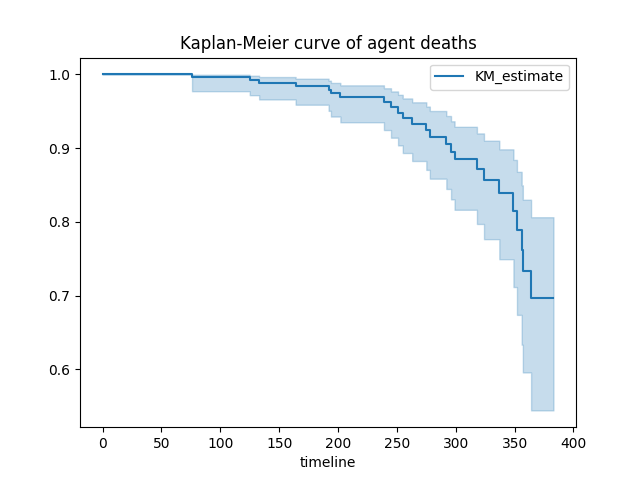
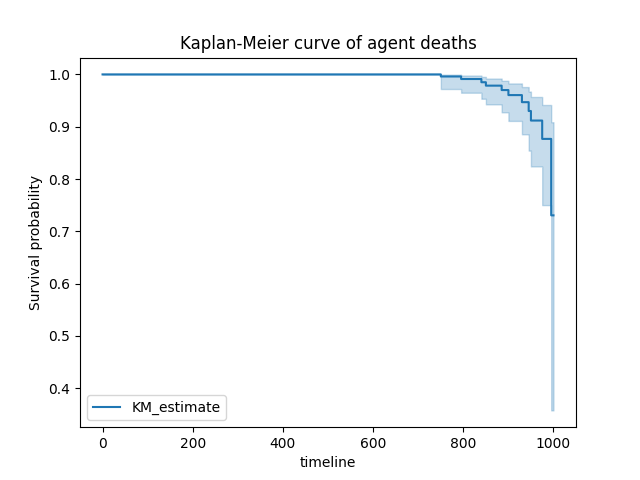
upkeep and KM-graph bugfix

diff --git a/simulation.py b/simulation.py
@@ -114,7 +114,7 @@ def moveAgent(preferred_direction):
 pygame.init()
 clock = pygame.time.Clock()
 dt = 0
-fps = 60
+fps = 120
 time = 1
 
 # Set up the grid
@@ -165,7 +165,7 @@ maximum_resources = {
 resources = copy.deepcopy(maximum_resources)
 
 # Set up the agents
-NUM_AGENTS = 200
+NUM_AGENTS = 100
 agents = []
 agent_colours = sns.color_palette('bright', n_colors=NUM_AGENTS)
 
@@ -179,7 +179,7 @@ for i in range(NUM_AGENTS):
    
     x = random.randint(0, GRID_WIDTH-2)
     y = random.randint(0, GRID_HEIGHT-2)
-    color = (255.0,0.0,0.0) if x < GRID_WIDTH/2 else (0.0,255.0,0.0)
+    color = (255.0,0.0,0.0) if y < GRID_HEIGHT/2 else (0.0,255.0,0.0)
     agent = Agent(i, x, y, color, GRID_WIDTH, GRID_HEIGHT) #color = np.array(agent_colours[i])*255
     agents.append(agent)
 
@@ -226,6 +226,12 @@ while running:
         pygame.draw.line(screen, BLACK, (x, 0), (x, SCREEN_HEIGHT))
     for y in range(0, SCREEN_HEIGHT, CELL_SIZE):
         pygame.draw.line(screen, BLACK, (0, y), (SCREEN_WIDTH, y))
+
+    # DEBUG
+    # if len(agents) < 10:
+    #     fps = 5
+    #     for agent in agents:
+    #         print('pos',agent.getPos(),'wood',agent.getCurrentStock('wood'),'food',agent.getCurrentStock('food'))
 
     # Update the agents
     for agent in agents:
@@ -283,14 +289,17 @@ while running:
                 if able_to_take_resource(agent, chosen_resource, resources):
                     take_resource(agent, chosen_resource, resources, gather_amount)
             
-                # Upkeep of agents and check if agent can survive
-                agent.upkeep()
-                
+            # Upkeep of agents and check if agent can survive
+            agent.upkeep()
 
             # Choose behaviour
             agent.updateBehaviour() # Agent brain
             preferred_direction = agent.chooseStep()
             moveAgent(preferred_direction)
+        # If agent is not alive, remove it from list
+        else:
+            # agents.remove(agent)
+            pass
 
     if regen_active:
         for maximum_resource in maximum_resources:
@@ -306,7 +315,13 @@ while running:
     dt = clock.tick(fps)/100
     time += 1
     
-
+    for agent in agents:
+        nr=0
+        if agent.isAlive():
+            nr+=1
+    if nr==1:
+        running=False
+        
 # Clean up
 pygame.quit()
 
@@ -331,7 +346,6 @@ plt.figure()
 kmf.plot()
 plt.title('Kaplan-Meier curve of agent deaths')
 plt.ylabel('Survival probability')
-plt.show()
 
 plt.figure
 plt.bar(np.arange(NUM_AGENTS), np.sort(alive_times))

diff --git a/agent.py b/agent.py
@@ -5,7 +5,7 @@ resources = ['wood', 'food']
 RANDOM_AGENTS = True
 TRADE_THRESHOLD = 1.5
 TRADE_QTY = 1.0
-UPKEEP_COST = 0.2
+UPKEEP_COST = 0.02
 
 class Agent:
     def __init__(self, id, x, y, color, GRID_WIDTH, GRID_HEIGHT):
